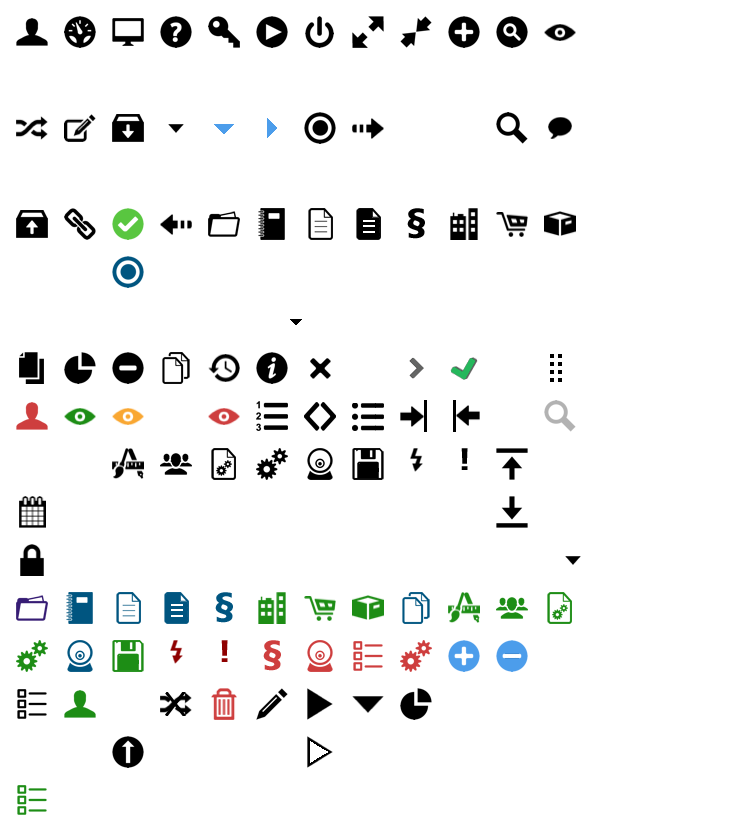
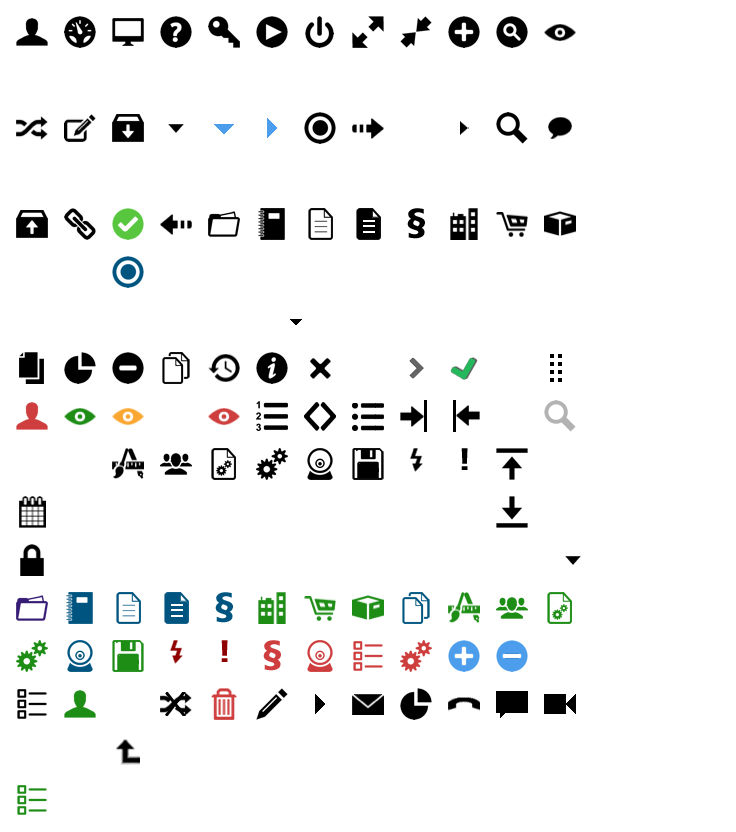
profile info widget creted in styleguide

diff --git a/src/ggrc/templates/styleguide/_profile_info.html b/src/ggrc/templates/styleguide/_profile_info.html
@@ -1,0 +1,91 @@
+<section id="profile-info" class="widget">
+  <section class="header">
+    <div class="row-fluid">
+      <div class="span8">
+        <h2><i class="grcicon-info"></i> Info</h2>
+      </div>
+      <div class="span4">
+        <div class="widget-action pull-right widget-showhide">
+          <a class="active" href="javascript://"></a>
+        </div>
+        <div class="widget-action pull-right widget-action-help">
+          <a href="javascript://">
+            <i class="grcicon-help-black"></i>
+          </a>
+        </div>
+      </div>
+    </div>
+  </section>
+  <section class="content">
+    <div class="tier-2-info item-content content-open" style="display:block;">
+      <div class="tier-2-info-content">
+        <div class="row-fluid">
+          <div class="span8">
+            <div class="profile-info">
+              <ul>
+                <li><strong>Predrag Kanazir</strong></li>
+                <li><strong>Email:</strong> predrag@reciprocitylabs.com</li>
+                <li><strong>Company:</strong> Reciprocity, Inc.</li>
+              </ul>
+              <div class="profile-contact">
+                <ul>
+                  <li>
+                    <a rel="tooltip" data-original-title="Start a video call" href="#"><i class="grcicon-gvideo"></i></a>
+                  </li>
+                  <li>
+                    <a rel="tooltip" data-original-title="Chat with this contact" href="#"><i class="grcicon-gchat"></i></a>
+                  </li>
+                  <li>
+                    <a rel="tooltip" data-original-title="Email this contact" href="#"><i class="grcicon-gmail"></i></a>
+                  </li>
+                  <li>
+                    <a rel="tooltip" data-original-title="Phone call" href="#"><i class="grcicon-gphone"></i></a>
+                  </li>
+                  <li class="circle-holder">
+                    <a class="btn btn-mini square-trigger" href="#">Add to Circles <i class="grcicon-carot"></i></a>
+                    <div class="square-popover">
+                      <ul>
+                        <li>
+                          <label>
+                            <input type="checkbox">
+                            Friends <span>126</span>
+                          </label>
+                        </li>
+                        <li>
+                          <label>
+                            <input type="checkbox">
+                            Family <span>40</span>
+                          </label>
+                        </li>
+                        <li>
+                          <label>
+                            <input type="checkbox">
+                            Acquaintances <span>12</span>
+                          </label>
+                        </li>
+                        <li>
+                          <label>
+                            <input type="checkbox">
+                            Following <span>4</span>
+                          </label>
+                        </li>
+                        <li class="create">
+                          <a href="#">Create new circle</a>
+                        </li>
+                      </ul>
+                    </div>
+                  </li>
+                </ul>
+              </div>
+            </div>
+          </div>
+          <div class="span4">
+            <div class="profile-photo">
+              <img src="/static/images/people/predrag-kanazir.jpg" alt="Predrag Kanazir">
+            </div>
+          </div>
+        </div>
+      </div>
+    </div>
+  </section>
+</section>

diff --git a/src/ggrc/assets/stylesheets/_widget.scss b/src/ggrc/assets/stylesheets/_widget.scss
@@ -818,3 +818,105 @@
 .nav.nav-tabs {
   margin-bottom:0;
 }
+
+// Profile Info Widget
+.profile-info {
+  padding-top: 12px;
+  ul {
+    @include reset-list();
+    li {
+      padding-bottom: 6px;
+    }
+  }
+  .profile-contact {
+    margin-top: 5px;
+    margin-bottom: 10px;
+    ul {
+      @include clearfix();
+      li {
+        padding-bottom: 0;
+        float: left;
+        margin-right: 10px;
+        a {
+          line-height: 23px;
+          display: block;
+          &.btn {
+            font-size: 12px;
+            line-height: 17px;
+            color: $darkGray;
+            &:hover {
+              color: $black;
+            }
+            i {
+              margin-top: 1px;
+            }
+          }
+          i {
+            margin-top: 4px;
+            @include opacity(0.3);
+            @include transition(opacity 0.2s ease-in-out);
+          }
+          &:hover {
+            i {
+              @include opacity(1);
+            }
+          }
+        }
+        &.circle-holder {
+          position: relative;
+        }
+        .square-popover {
+          padding: 7px 3px 6px 3px;
+          border: 1px solid $midGray;
+          position: absolute;
+          bottom: 0;
+          left: 0;
+          display: none;
+          background: $white;
+          ul {
+            li {
+              float: none;
+              clear: both;
+              margin: 0 0 3px 0;
+              padding-left: 7px;
+              padding-right: 7px;
+              width: 190px;
+              font-size: 11px;
+              font-weight: bold;
+              color: $black;
+              label {
+                font-size: 11px;
+                font-weight: bold;
+                color: $black;
+                cursor: pointer;
+              }
+              input {
+                margin-top: 0;
+              }
+              span {
+                float: right;
+                text-align: right;
+              }
+              &.create {
+                border-top: 1px solid $sidenavBorder;
+                padding-top: 5px;
+                margin: 0;
+                a {
+                  line-height: 16px;
+                }
+              }
+            }
+          }
+        }
+      }
+    }
+  }
+}
+
+.profile-photo {
+  padding-top: 10px;
+  text-align: right;
+  img {
+    @include border-radius($default-border-radius);
+  }
+}

diff --git a/src/ggrc/assets/javascripts/application.js b/src/ggrc/assets/javascripts/application.js
@@ -721,6 +721,25 @@ $(window).load(function(){
     return false;
     
   });
+  
+  // Google Circle CTA Button
+  $('body').on('mouseenter', '.square-trigger', function() {
+    var $this = $(this),
+        $popover = $this.closest('.circle-holder').find('.square-popover');
+    
+    $popover.slideDown('fast');
+    $this.addClass("active");
+    return false;
+  });
+  $('body').on('mouseleave', '.square-popover', function() {
+    var $this = $(this),
+        $trigger = $this.closest('.circle-holder').find('.square-trigger');
+    
+    $this.slideUp('fast');
+    $trigger.removeClass('active');
+    $this.removeClass("active");
+    return false;
+  });
 
 });
 

diff --git a/src/ggrc/assets/stylesheets/_icons.scss b/src/ggrc/assets/stylesheets/_icons.scss
@@ -349,6 +349,19 @@
   background-position:-198px -344px;
 }
 
+.grcicon-gvideo {
+  background-position:-270px -344px;
+}
+.grcicon-gmail {
+  background-position:-174px -344px;
+}
+.grcicon-gphone {
+  background-position:-222px -344px;
+}
+.grcicon-gchat {
+  background-position:-246px -344px;
+}
+
 // Large icons
 .grciconlarge-dashboard {
   background-position:-8px -8px;

diff --git a/src/ggrc/assets/stylesheets/_setup.scss b/src/ggrc/assets/stylesheets/_setup.scss
@@ -55,6 +55,7 @@
     $green: #1d8d15;
     $darkBlue: #369;
     $warmGray: #ccc;
+    $midGray: #aaa;
   
   // quick search
     $topBarSearchText: #bbbdc1;
